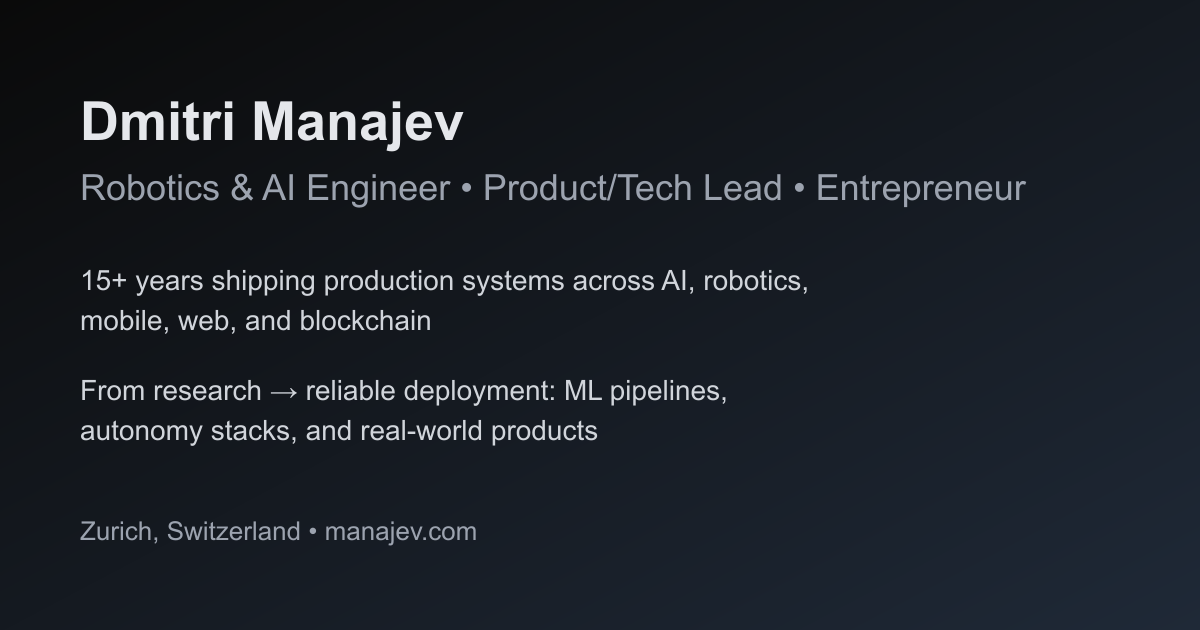
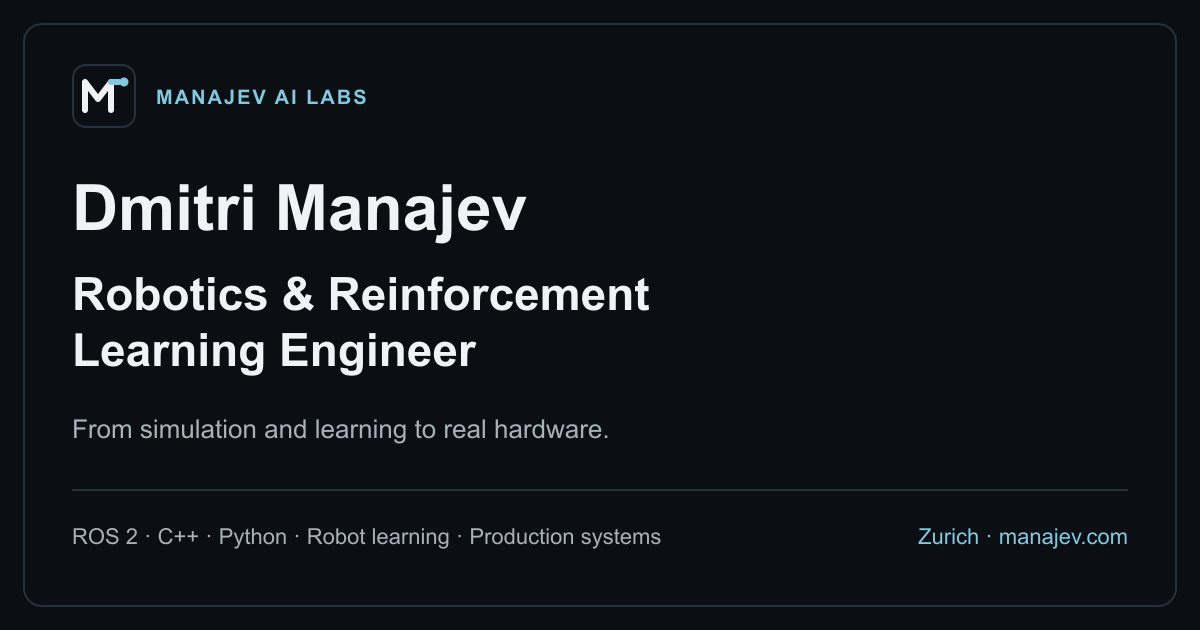
Refresh website identity and robotics profile

diff --git a/index.html b/index.html
@@ -56,6 +56,10 @@
       name="twitter:image"
       content="https://manajev.com/assets/og-image.png"
     />
+    <meta
+      name="twitter:image:alt"
+      content="Dmitri Manajev — Robotics &amp; RL Engineer in Zurich. Manajev AI Labs · manajev.com"
+    />
 
     <link rel="canonical" href="https://manajev.com/" />
     <link
@@ -63,8 +67,9 @@
       type="application/pdf"
       href="https://manajev.com/assets/resume.pdf"
     />
-    <link rel="icon" href="favicon.svg" type="image/svg+xml" />
-    <link rel="apple-touch-icon" href="apple-touch-icon.png" />
+    <link rel="icon" href="favicon-96.png" type="image/png" sizes="96x96" />
+    <link rel="icon" href="favicon.svg" type="image/svg+xml" sizes="any" />
+    <link rel="apple-touch-icon" href="apple-touch-icon.png" sizes="180x180" />
     <meta name="theme-color" content="#0b0f13" />
 
     <script type="application/ld+json">
@@ -74,7 +79,6 @@
         "@id": "https://manajev.com/#dmitri",
         "name": "Dmitri Manajev",
         "url": "https://manajev.com/",
-        "image": "https://manajev.com/assets/og-image.png",
         "jobTitle": "Robotics and Reinforcement Learning Engineer",
         "description": "Robotics and Reinforcement Learning Engineer with 15+ years of software engineering experience, including software architecture, engineering leadership, technical product management, and entrepreneurship.",
         "worksFor": {
@@ -135,7 +139,13 @@
     <header class="site-header">
       <div class="shell site-header__inner">
         <a class="wordmark" href="#top" aria-label="Manajev AI Labs, home">
-          <span class="wordmark__mark" aria-hidden="true">DM</span>
+          <img
+            class="wordmark__mark"
+            src="favicon.svg"
+            alt=""
+            width="32"
+            height="32"
+          />
           <span>Manajev AI Labs</span>
         </a>
 
@@ -186,7 +196,8 @@
 
           <p class="hero__location">
             Currently:
-            <a href="https://hivebotics.tech/">Robotics Engineer at Hivebotics</a>
+            Independent Robotics Engineer ·
+            <a href="https://hivebotics.tech/">Hivebotics</a>
             · based in Zurich · remote + on-site in Singapore
           </p>
         </div>
@@ -596,10 +607,6 @@
                 and Python for autonomous mobile manipulators, spanning
                 navigation, arm control, systems integration, diagnostics,
                 failure recovery, and real-robot validation.
-              </p>
-              <p>
-                Work includes Nav2 and MoveIt Pro, with on-site commissioning
-                in Singapore.
               </p>
               <ul class="tag-list" aria-label="Hivebotics technologies">
                 <li>ROS 2 / C++ / Python</li>

diff --git a/resume/index.html b/resume/index.html
@@ -38,8 +38,9 @@
       }
     </script>
 
-    <link rel="icon" href="../favicon.svg" type="image/svg+xml" />
-    <link rel="apple-touch-icon" href="../apple-touch-icon.png" />
+    <link rel="icon" href="../favicon-96.png" type="image/png" sizes="96x96" />
+    <link rel="icon" href="../favicon.svg" type="image/svg+xml" sizes="any" />
+    <link rel="apple-touch-icon" href="../apple-touch-icon.png" sizes="180x180" />
     <link
       rel="stylesheet"
       type="text/css"
@@ -54,7 +55,13 @@
     <header class="site-header">
       <div class="shell site-header__inner">
         <a class="wordmark" href="../" aria-label="Manajev AI Labs, home">
-          <span class="wordmark__mark" aria-hidden="true">DM</span>
+          <img
+            class="wordmark__mark"
+            src="../favicon.svg"
+            alt=""
+            width="32"
+            height="32"
+          />
           <span>Manajev AI Labs</span>
         </a>
 

diff --git a/stylesheets/stylesheet.css b/stylesheets/stylesheet.css
@@ -225,16 +225,11 @@ a:hover {
 }
 
 .wordmark__mark {
-  display: inline-grid;
+  display: block;
   width: 2rem;
   height: 2rem;
-  place-items: center;
-  border: 1px solid var(--color-line-strong);
+  flex: 0 0 auto;
   border-radius: var(--radius-sm);
-  color: var(--color-accent);
-  font-family: var(--font-mono);
-  font-size: 0.68rem;
-  letter-spacing: 0.04em;
 }
 
 .site-nav__list {
